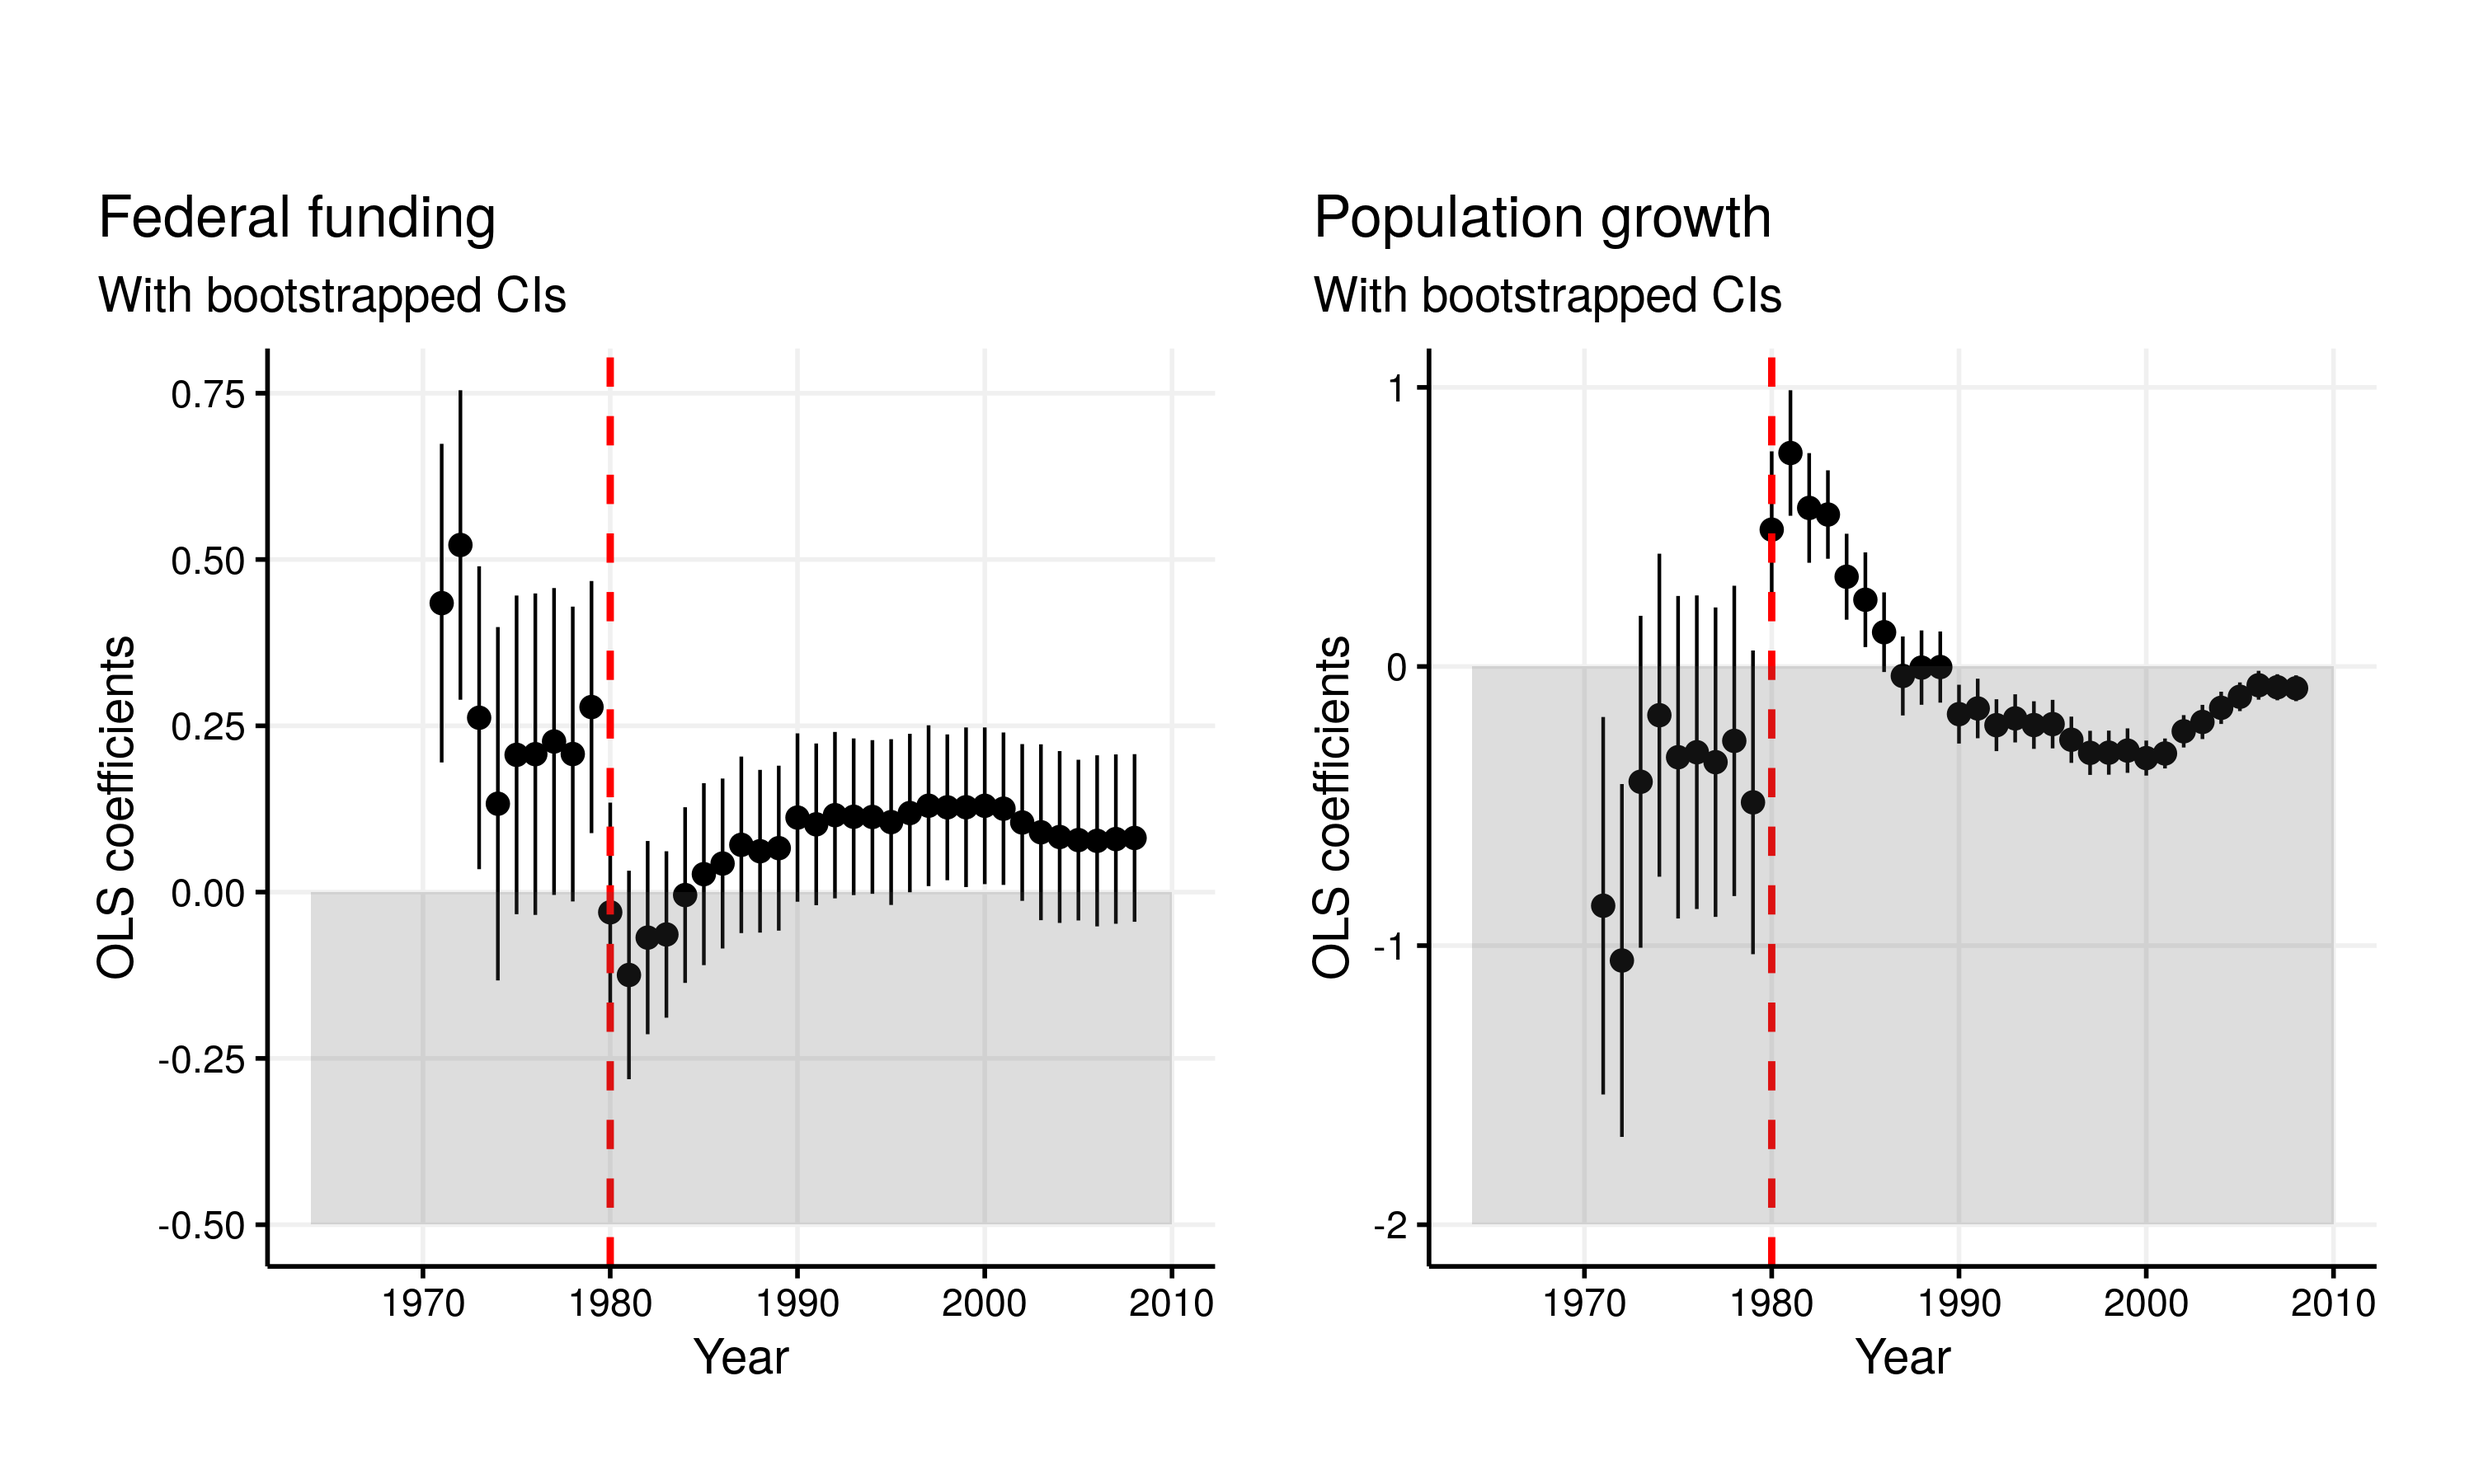
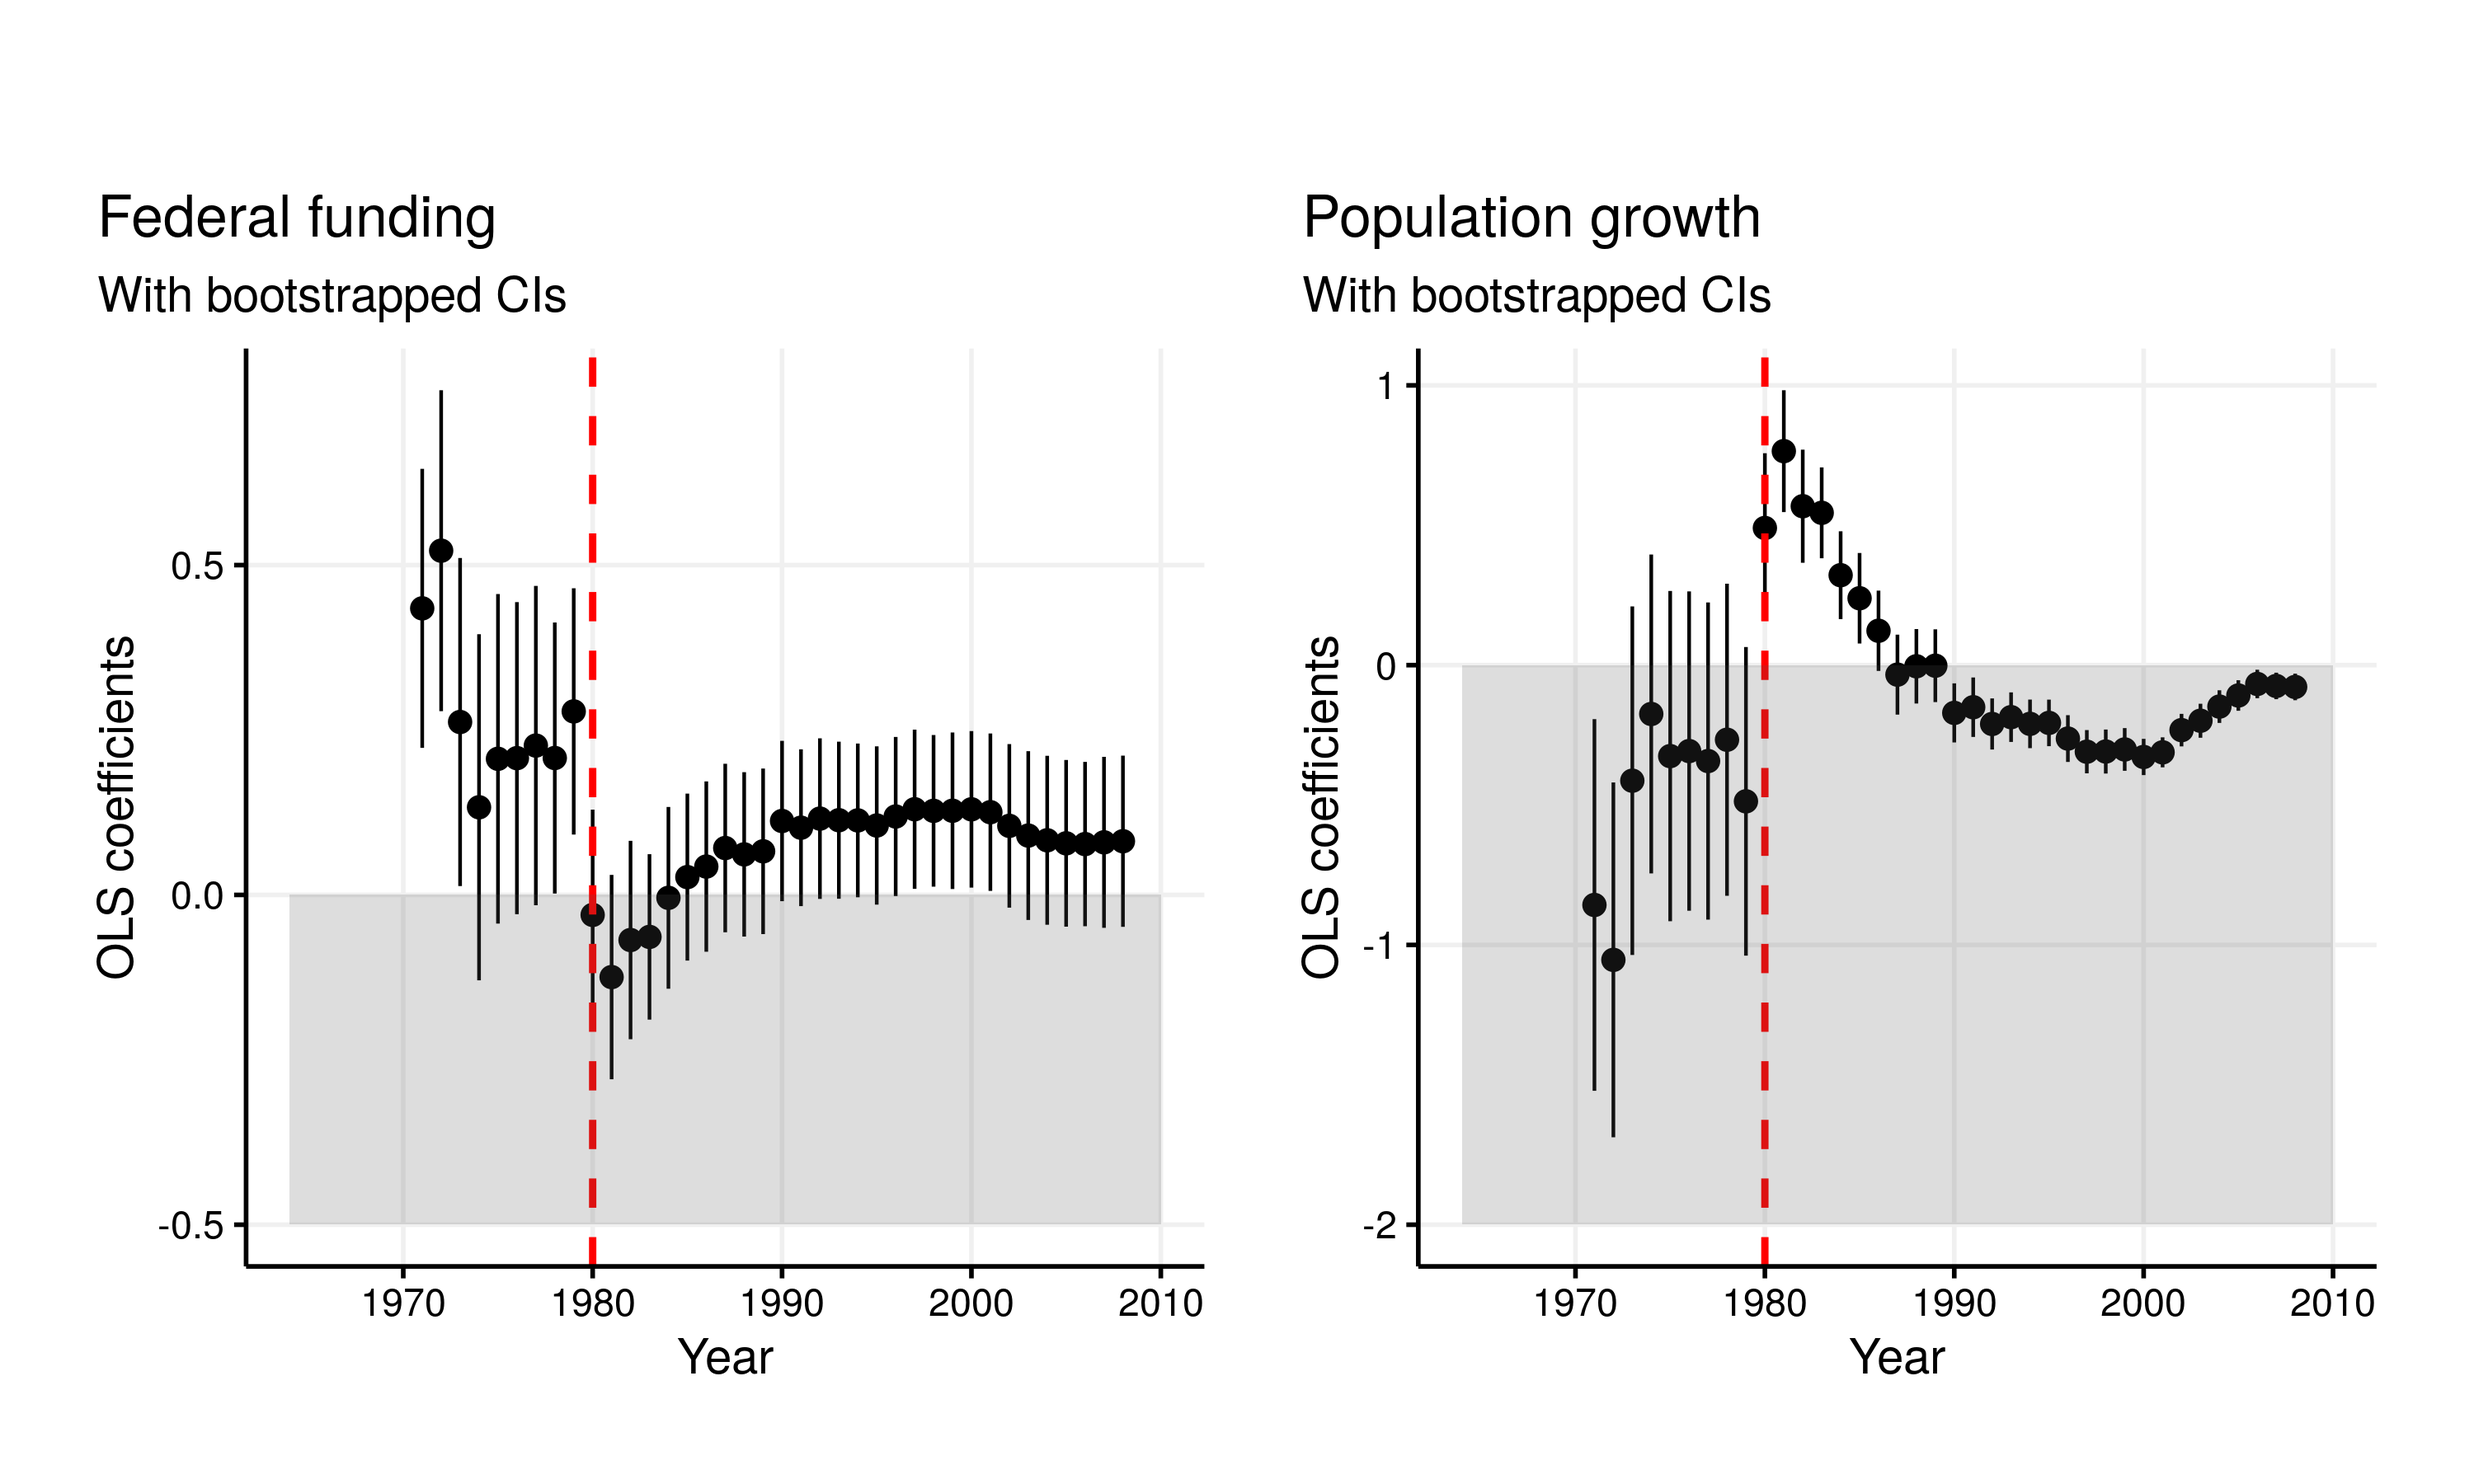
boot CIs

diff --git a/README.md b/README.md
@@ -182,6 +182,8 @@ year[i] <- 1970 + i
 
 **Figure 7. Changes in coefficients with bootstrapped CIs**
 
+From now on, I use the OLS with logged DV for the analysis. We saw the slope change. Given the research question, it is important to know to what extent the federal funding contributed to the slope change as opposed to other factors. To do so, I examine how the coefficient of federal funding changed as we extended the data from the year 1970 to 2017. For instance, the 1970 data is the subset of the original data which includes observations up to the year 1970. I created point plot using the for loop. The point plot in Figure 7 shows that the coefficients of the federal funding were positive up to the cutpoint. Then, they became almost zero after the cut point. An opposite trend was found from the changes in the coefficients of population growth. They were either negative or zero before the cutpoint. Then, they became positive in the 1980s and then became almost zero or negative again.
+
 ```{r}
 # Initilization vars
 fed <- NA
@@ -201,6 +203,8 @@ year[i] <- 1970 + i}
 
 ```
 
+I also added confidence intervals using bootstrapping. Bootstrapping is resampling wiht replacement. For each regression model at a time point, I resampleed the data and ran the same analysis for 1,000 times, and created confidence intervals based on the sampling variability of regression coefficients.
+
 ```{r}
 boot_ci <- function(i){
 
@@ -213,7 +217,7 @@ result = data.frame()
 year = data.frame()
 
 # Model
-m = Boot(lm(log(Freq) ~ Percentage + pop_percentage + category, data = subset(reagan_org, Year <= 1970 + i)), R = 500)
+m = Boot(lm(log(Freq) ~ Percentage + pop_percentage + category, data = subset(reagan_org, Year <= 1970 + i)), R = 1000)
 
 # Extract bootSE
 stat = rbind(stat, summary(m) %>% data.frame() %>% select(bootSE))
@@ -228,6 +232,21 @@ result = cbind(stat, Year, Names)
 rownames(result) <- NULL
 
 result}
+
+cis <- data.frame()
+
+for (i in c(1:38)){
+  print(paste0(i, " iteration completed"))
+  cis = rbind(cis, boot_ci(i))
+}
+
+colnames(cis)[1:2] <- c("SE", "Year")
+
+cis_spread <- cis %>%
+  spread(Names, SE) %>%
+  select(-c(Intercept, Latino_SE))
+
+boot_merged <- merge(cis_spread, for_loop)
 ```
 
 ### 3.3. Correct standard errors
